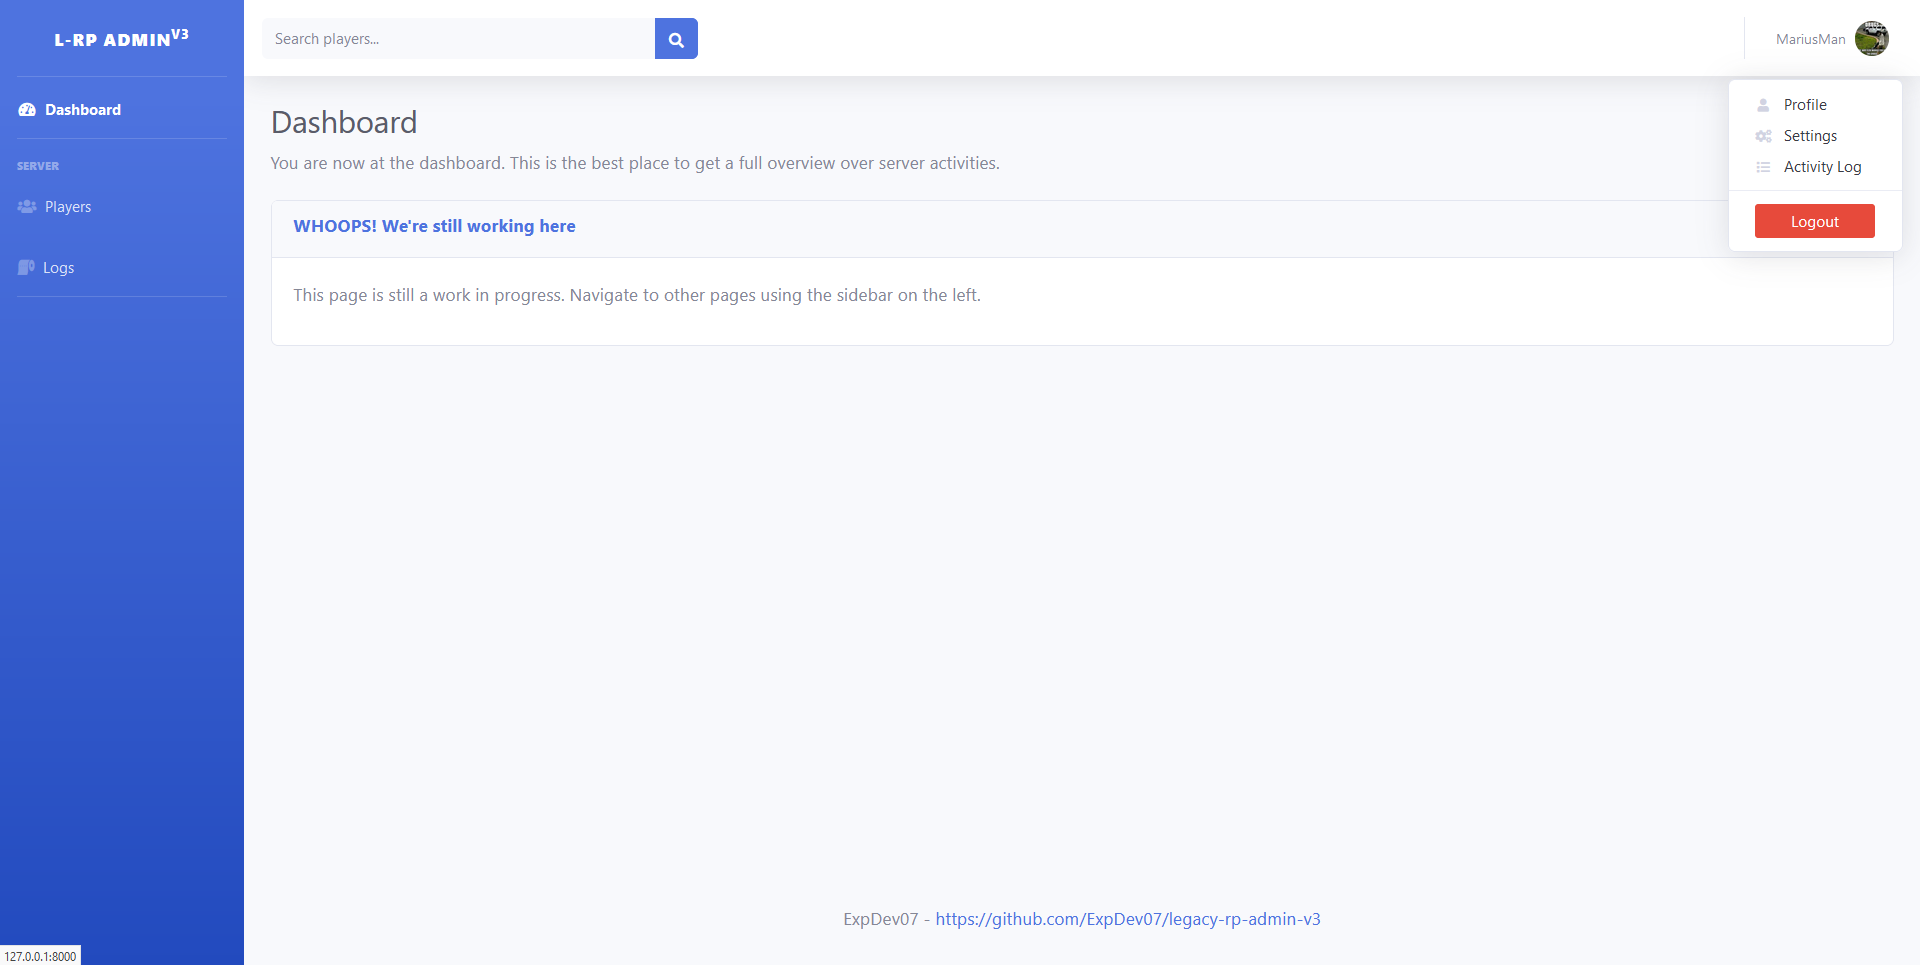
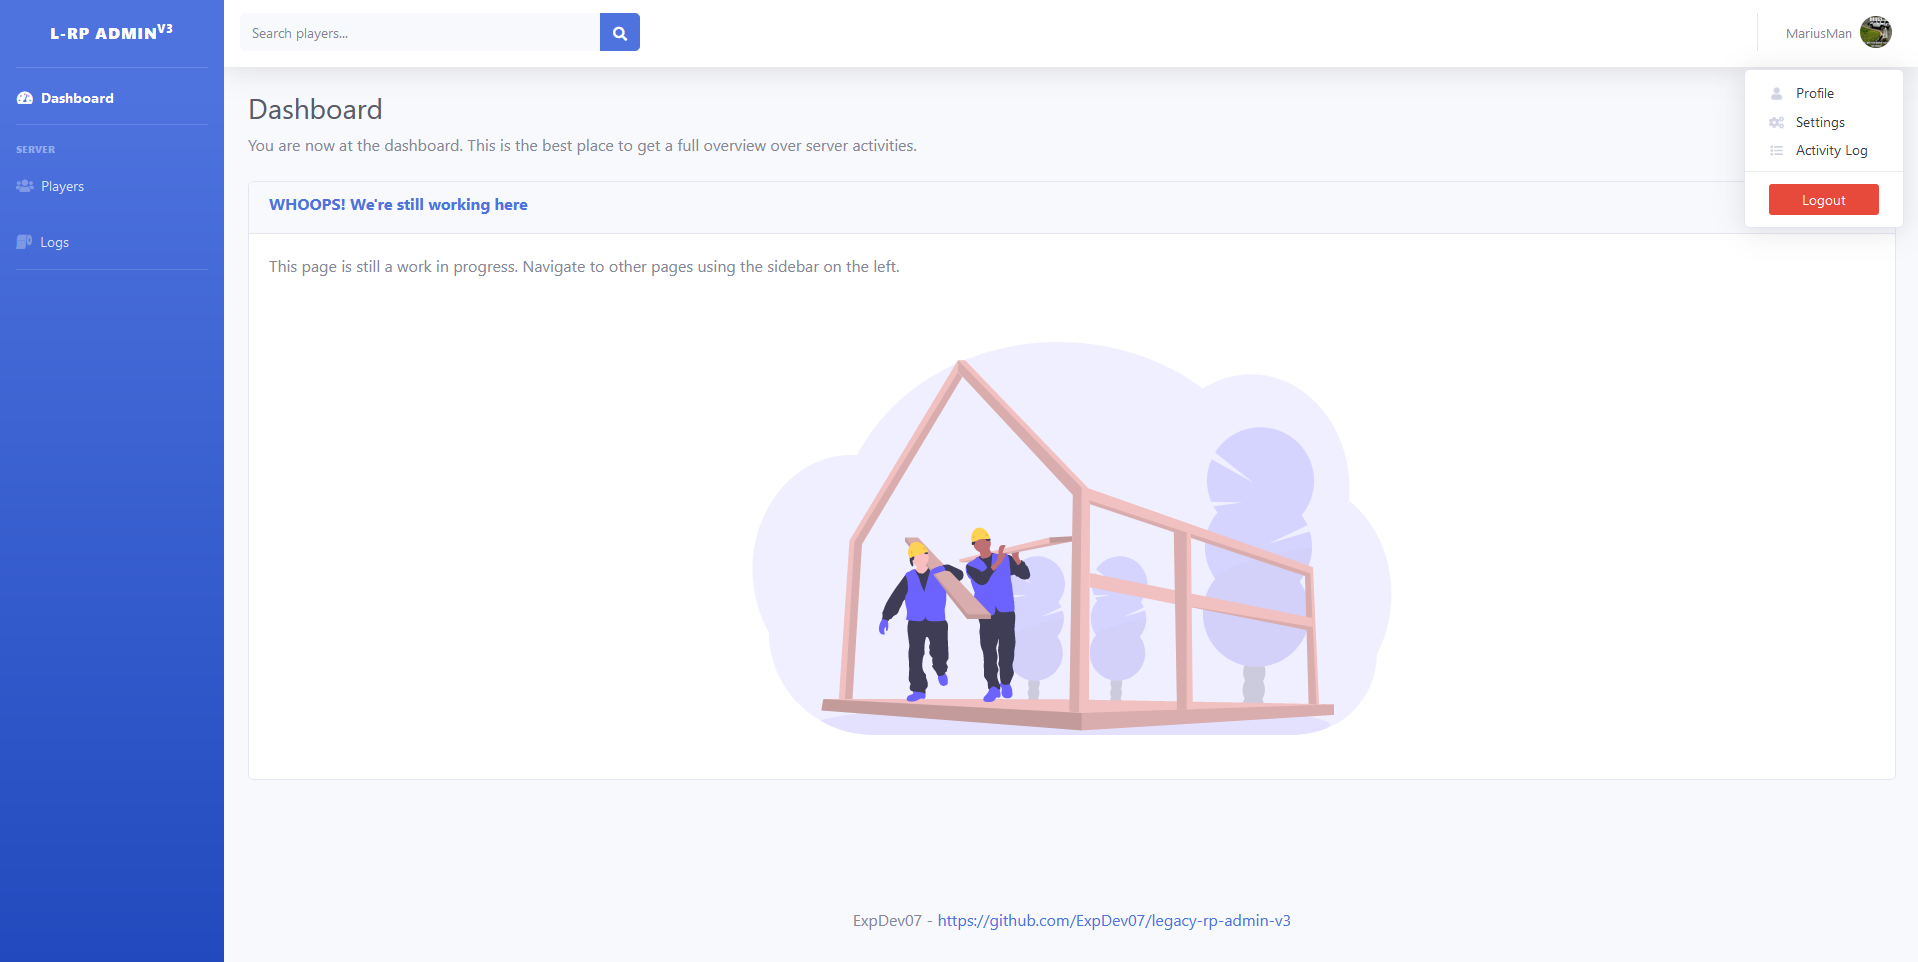
steam profile

diff --git a/resources/views/players/show.blade.php b/resources/views/players/show.blade.php
@@ -39,7 +39,7 @@
     <!-- Player information -->
     <div class="row">
         <div class="col">
-            <div class="card mb-4">
+            <div class="card border-left-primary mb-4">
                 <div class="card-header">
                     <h5 class="text-primary">Player Information</h5>
                 </div>
@@ -47,6 +47,18 @@
                     <p>
                         This player has a total playtime of <span class="font-weight-bold">{{ $player->getPlayTime() }}</span>.
                     </p>
+                </div>
+                <div class="card-footer">
+                    <!-- Visiting steam profile -->
+                    <a class="btn btn-sm btn-dark btn-icon-split" href="#">
+                        <!-- Icon -->
+                        <span class="icon"><i class="fab fa-steam"></i></span>
+
+                        <!-- Text -->
+                        <span class="text">
+                            Steam Profile
+                        </span>
+                    </a>
                 </div>
             </div>
         </div>
@@ -73,18 +85,18 @@
                         </a>
                     </div>
                 </div>
-                <div class="card-body bg-gradient-light">
+                <div class="card-body">
                     @forelse ($player->warnings()->latest()->get() as $warning)
                         <div class="card mb-4">
                             <div class="card-body">
                                 {{ $warning->message }}
                             </div>
                             <div class="card-footer">
-                                By {{ $warning->issuer->name }} - {{ $warning->created_at }}
+                                By <span class="font-weight-bold">{{ $warning->issuer->name }}</span> - {{ $warning->created_at }}
                             </div>
                         </div>
                     @empty
-                        <p class="text-success">This player has no warnings! Excellent.</p>
+                        <p class="text-success font-weight-bold m-0">This player has no warnings on their record! Excellent.</p>
                     @endforelse
                 </div>
                 <div class="card-footer">
@@ -129,9 +141,7 @@
                     </div>
                     <!-- Actions to perform -->
                     <div class="modal-footer">
-                        <form action="">
-                            <button class="btn btn-primary" >Add warning</button>
-                        </form>
+                        <button class="btn btn-primary" type="submit">Add warning</button>
                     </div>
                 </form>
             </div>

diff --git a/resources/views/index.blade.php b/resources/views/index.blade.php
@@ -15,6 +15,9 @@
                     <p>
                         This page is still a work in progress. Navigate to other pages using the sidebar on the left.
                     </p>
+                    <div class="text-center">
+                        <img class="img-fluid mt-5 mb-4" style="width: 40rem" src="{{ asset('images/under_construction.svg') }}" alt="">
+                    </div>
                 </div>
             </div>
         </div>

diff --git a/README.md b/README.md
@@ -43,6 +43,9 @@ This list only contains some of the most notable contributors. For the full list
 ### Players
 <img src="https://github.com/ExpDev07/legacy-rp-admin-v3/raw/master/.github/screenshots/players.PNG" alt="Players" />
 
+### Viewing Player
+<img src="https://github.com/ExpDev07/legacy-rp-admin-v3/raw/master/.github/screenshots/view_player.PNG" alt="View Player" />
+
 ## Contributing
 This section describes how you can help contribute.
 
